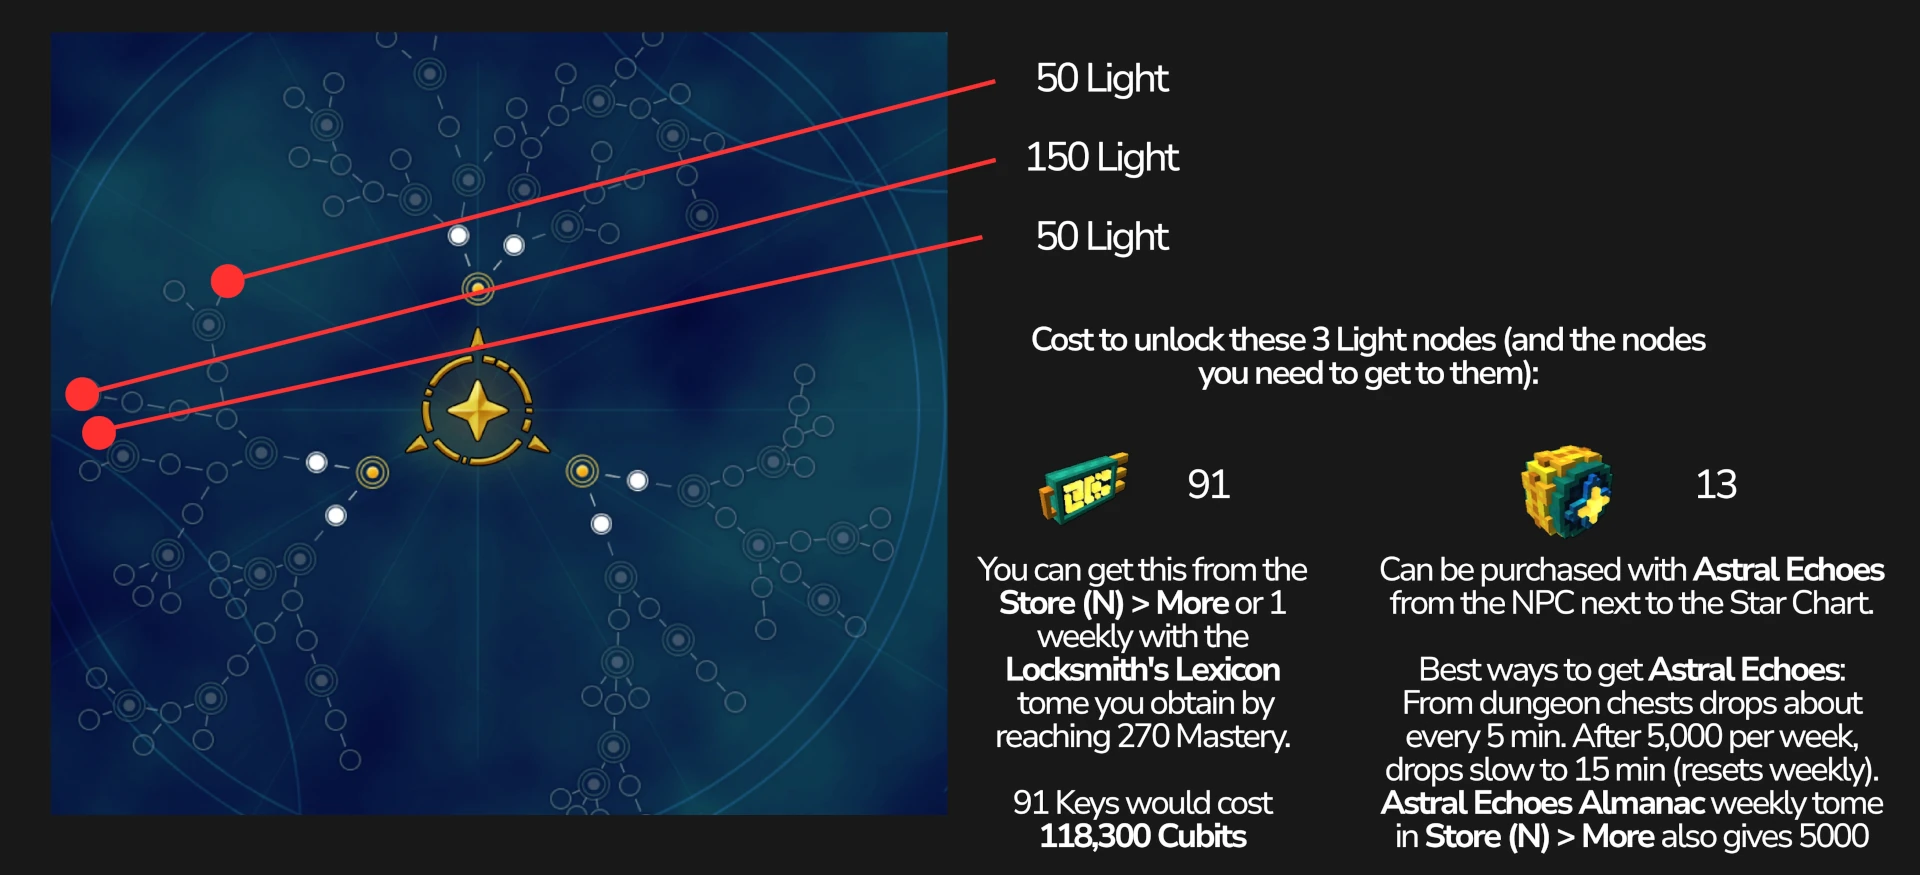
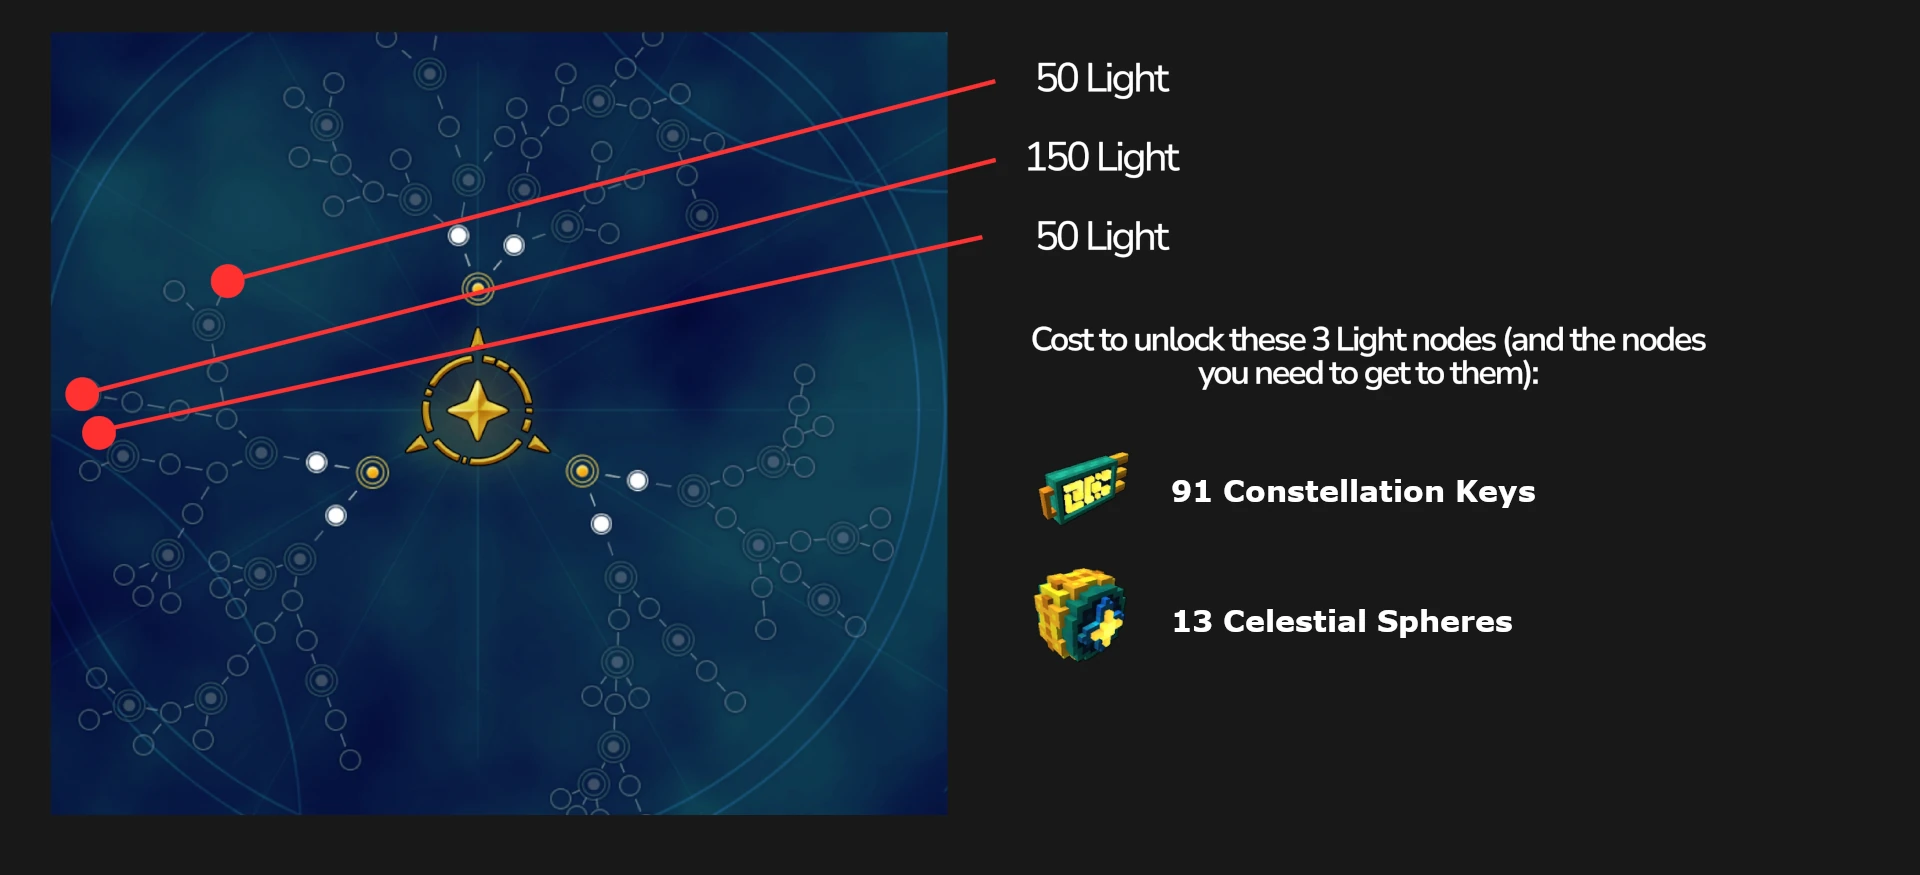
Max Light guide updated

Changed region(s): [[0.5, 0.4937, 1.0, 0.9874], [0.5312, 0.8949, 0.6562, 0.9874], [0.875, 0.5246, 0.9062, 0.5863]]

diff --git a/src/components/GuidesList.jsx b/src/components/GuidesList.jsx
@@ -89,7 +89,7 @@ If you wish to see the best build for your class, check out this spreadsheet:
     icon: 'ri-sun-line', 
     slug: 'maximize-light',
     bgImage: '/guidebg/cosmic.webp',
-    author: 'Mortrak, Losiqn - Arsyn',
+    author: 'Losiqn - Arsyn',
     date: '2026-07-15',
     content: `## How to get max light?
 
@@ -153,7 +153,7 @@ These are max mystic gems. Make sure they have **3 boosts*** on Light and are **
   <img src="/guideimages/Mysticfacemax.png"/>
 </div>
 
-## Misc. Gear - Total Light: 1675
+## Misc. Gear - Total Light: 1800
 <div class="gd-image-container">
   <div class="gd-image-glow-border"></div>
   <img src="/guideimages/C5GEARMYSTICGEMS3page0005.webp"/>
@@ -164,7 +164,7 @@ These are max mystic gems. Make sure they have **3 boosts*** on Light and are **
 * Rings: For long time, only crystal rings were available, but now you can also get the new mystic rings. Both of them are good, but mystic rings are better because they gives more light and new ring abilities. Mystic rings can be crafted at the Ringcrafting Bench after reaching max lvl in the Ringcrafter Bench. To be able to Mystic Rings you need mystic loops which are similar to primal loops, but mystic loops can be only acquired from D15, after reaching a new primal level. Note: You must be in D15 in the moment when you get the new primal level.
 * Auto-Use Rune: This rune is a must-have for endgame players. Can be obtainable from the Rune Crafting Bench, after reaching a specified level in the bench.
 
-## Allys - Total Light: 400 or 500
+## Allies - Total Light: 400 or 450
 <div class="gd-image-container">
   <div class="gd-image-glow-border"></div>
   <img src="/guideimages/C5GEARMYSTICGEMS3page0006.webp"/>
@@ -188,7 +188,7 @@ Each dragon gives a significant amount of light, and the total light from dragon
 </div>
 
 ##
-* Star Chart: There are some orbs in the Star Chart (as shown on the image) which gives small amounts of light. Two of the 3 orbs unlocks Scorpius and Starry Skyfire allies.
+* Light Orbs: There are some orbs in the Star Chart (as shown on the image) which gives small amounts of light. Two of the 3 orbs unlocks Scorpius and Starry Skyfire allies.
 * Constellation Key: Count this item as some kind of currency. If you have Constellation Keys, you can unlock minor orbs in the Star Chart. Constellation Keys can be either acquired for 1300 cubits on the Store -> More tab or you can obtain the Locksmith's Lexicon by reaching Mastery Lvl 270. The tome gives you 1 key every week. You need 91 keys to unlock all the 3 orbs which is 118.300 cubits.
 * Celestial Sphere: Used to unlock major orbs in the Star Chart. You can obtain these spheres at the Celestial in the NW building of the Hub. Note: The first 3 Celestial Sphere costs 100 flux each, after buying the first amounts, you will need Astral Echoes in the future to buy more Celestial Spheres.
 * Astral Echoes: Currency to buy Celestial Spheres. Best ways to get Astral Echoes: 
@@ -249,7 +249,7 @@ Each dragon gives a significant amount of light, and the total light from dragon
 <span classname="mysticgear">Mystic Gear: 13796 Light - using 400 light Ally.</span>\n
 ###
 ###\n\n
-<span classname="light">Absolute Max Light can be 14604 - with (450 Light) Ally + Berserk Battler (we count the Berserk Battler's proc as plus light.)</span>
+<span classname="light">Absolute Max Light can be 14730 - with (450 Light) Ally + Berserk Battler (we count the Berserk Battler's proc as plus light.)</span>
 `
   },
   { 
